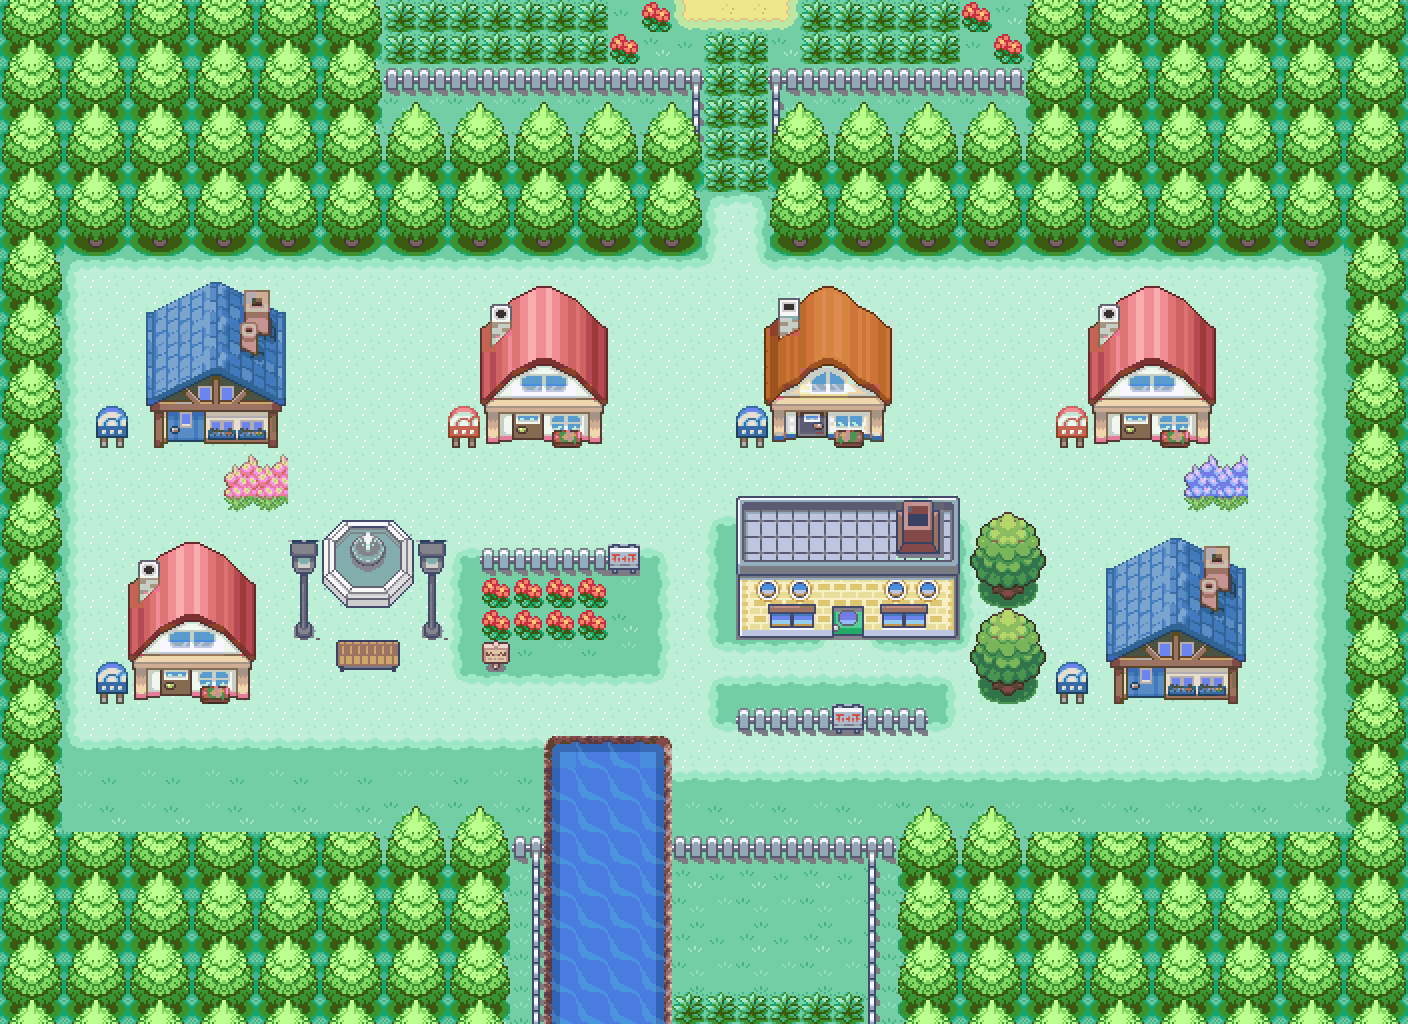
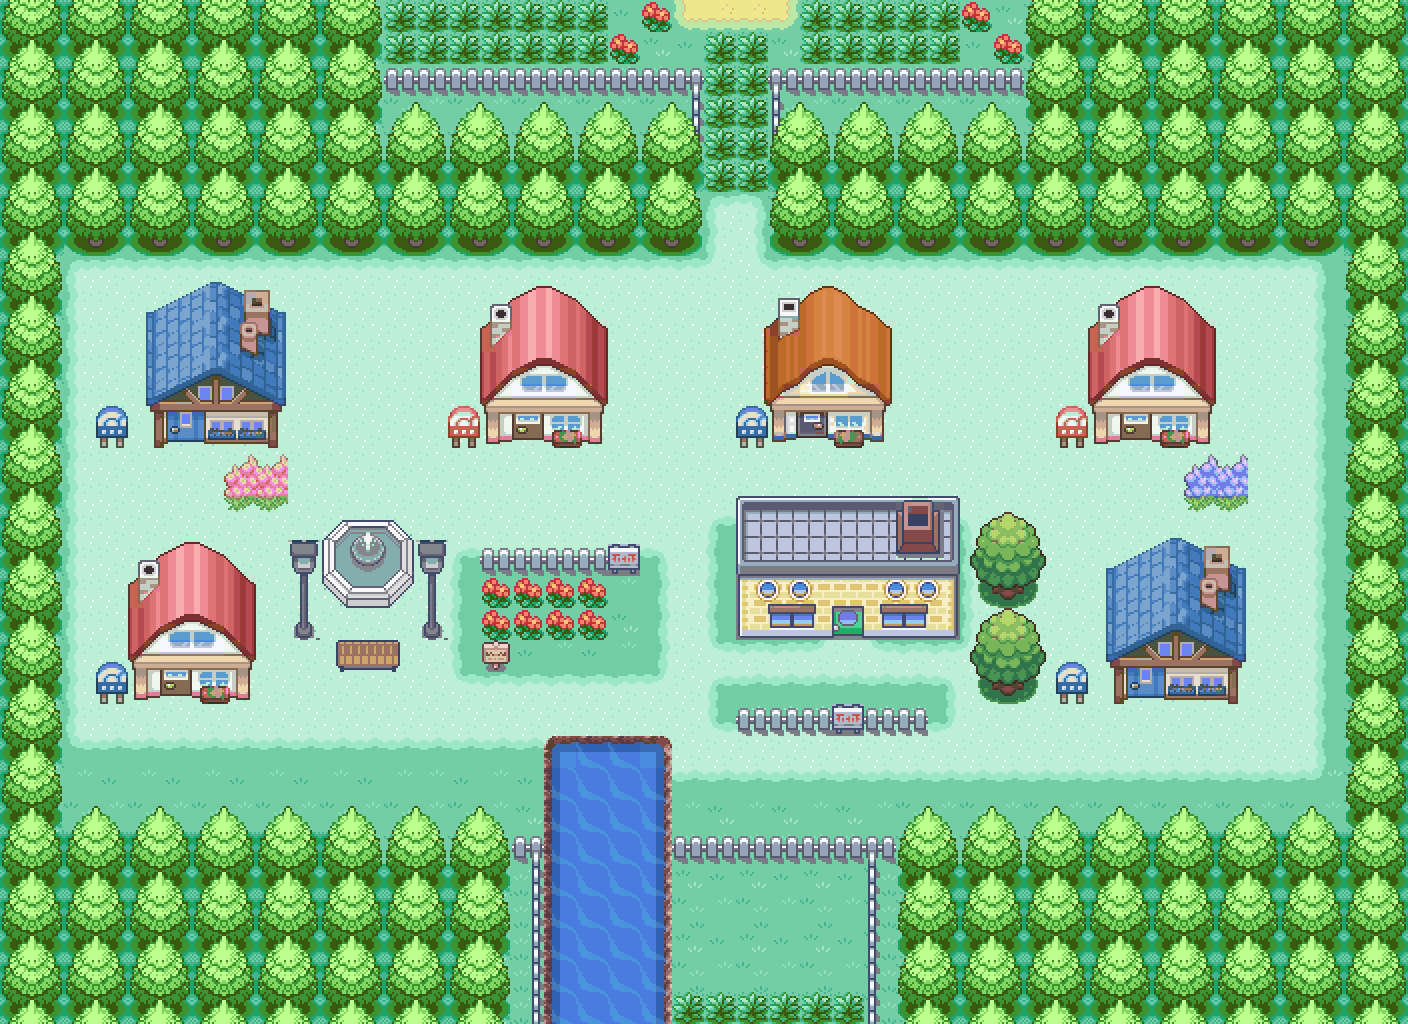
Pallet Town: give the extended bottom edge tree tops
The forest below the map starts with mid-forest pieces, so the new west
and east sections need tree-top blocks on their last row, as the
original town has; without them the trees looked cut off.

Claude-Session: https://claude.ai/code/session_01YRDK63dohe16hxjFg7hRHG

Changed region(s): [[0.7188, 0.7812, 0.9688, 0.8125], [0.0312, 0.7812, 0.2812, 0.8125]]

diff --git a/pallet-town-upgrade/pallet_upgrade/compose.py b/pallet-town-upgrade/pallet_upgrade/compose.py
@@ -118,14 +118,17 @@ for y in (17, 18, 19):
 G[17][2 + DX] = 670          # was the bottom-left corner; lawn continues west now
 G[17][21 + DX] = LAWN        # was the right edge
 G[18][21 + DX] = 670         # was the bottom-right corner
-for x in range(2, 2 + DX):   # west extension: lawn edge, then dark grass
+# Row 19 holds tree tops (14/15), as the original does: the forest below the
+# map (border blocks) starts with mid-forest pieces, so without tops the trees
+# along the map's bottom edge would look sliced off.
+for x in range(2, 2 + DX):   # west extension: lawn edge, dark grass, tree tops
     G[17][x] = 694 if x == 2 else 670
     G[18][x] = 17 if x % 2 == 0 else 9
-    G[19][x] = 17 if x % 2 == 0 else 8
+    G[19][x] = 14 if x % 2 == 0 else 15
 for x in range(22 + DX, W - 2):  # east extension
     G[17][x] = 663 if x == W - 3 else LAWN
     G[18][x] = 671 if x == W - 3 else 670
-    G[19][x] = 17 if x % 2 == 0 else 8
+    G[19][x] = 14 if x % 2 == 0 else 15
 # kept original areas: Oak's lab block with its yard, fence and sign; the garden
 KEEP_AREAS = [(12, 9, 20, 16), (4, 11, 10, 15)]  # original coords, inclusive
 for (x0, y0, x1, y1) in KEEP_AREAS:
